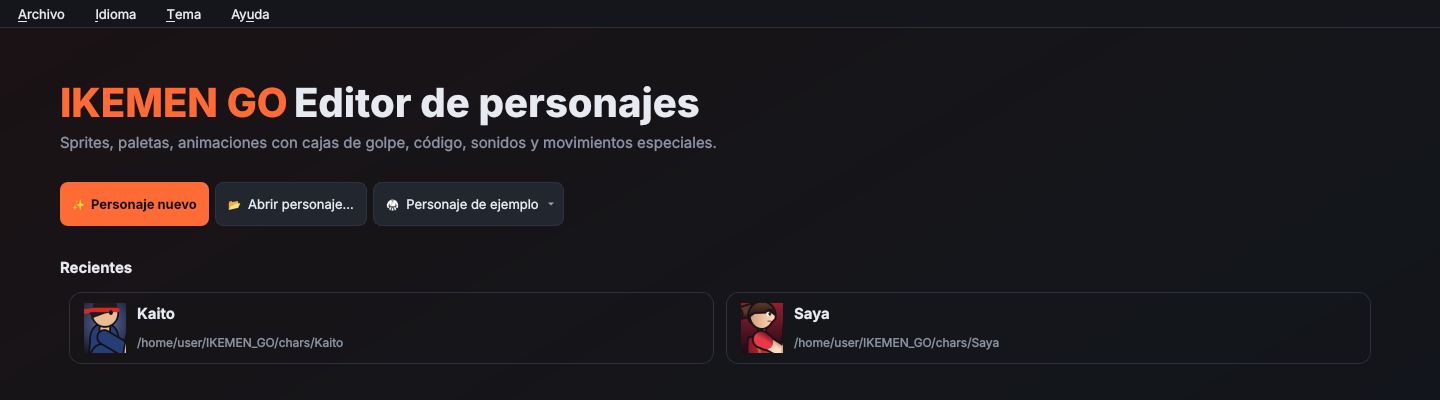
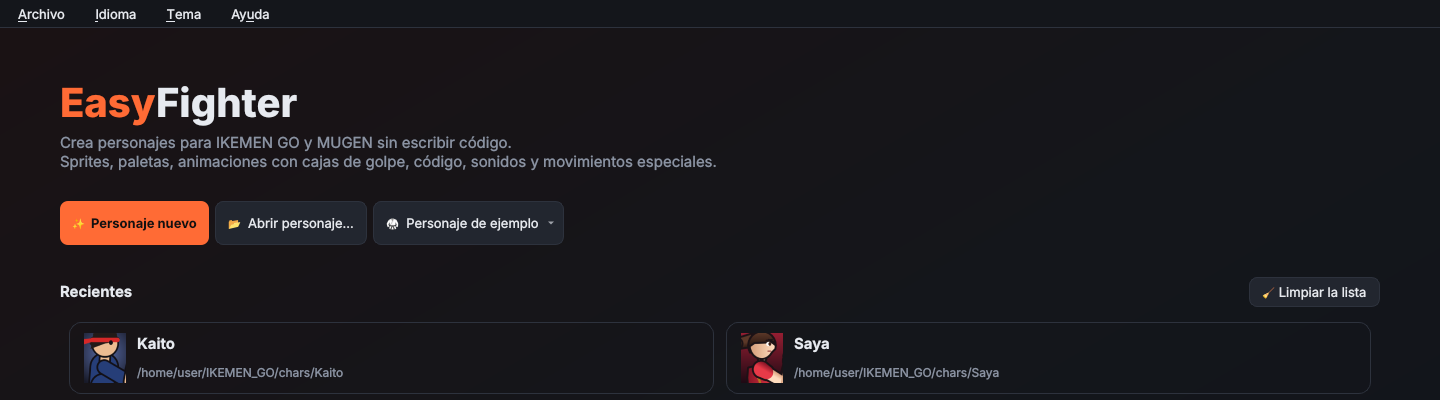
Nuevo nombre: EasyFighter

diff --git a/i18n.py b/i18n.py
@@ -1,9 +1,9 @@
 """
-Idiomas de IKEMEN GO Character Editor / IKEMEN GO Character Editor languages.
+Idiomas de EasyFighter / EasyFighter languages.
 
 The program text is written in Spanish in the source code; every visible text goes through tr().
 English is the default language. Translations live in lang/<code>.json as {"Spanish text": "translation"}.
-To add a language: copy lang/en.json to lang/<code>.json (or to ~/.config/ikemen-chareditor/lang/),
+To add a language: copy lang/en.json to lang/<code>.json (or to ~/.config/easyfighter/lang/),
 set "_name" and translate the values.
 """
 import json
@@ -14,11 +14,19 @@ from pathlib import Path
 HERE = Path(getattr(sys, "_MEIPASS", Path(__file__).resolve().parent))
 LANG_DIR = HERE / "lang"
 if sys.platform == "win32":
-    CONFIG_DIR = Path(os.environ.get("APPDATA", Path.home() / "AppData" / "Roaming")) / "ikemen-chareditor"
+    CONFIG_DIR = Path(os.environ.get("APPDATA", Path.home() / "AppData" / "Roaming")) / "easyfighter"
 elif sys.platform == "darwin":
-    CONFIG_DIR = Path.home() / "Library" / "Application Support" / "ikemen-chareditor"
+    CONFIG_DIR = Path.home() / "Library" / "Application Support" / "easyfighter"
 else:
-    CONFIG_DIR = Path(os.environ.get("XDG_CONFIG_HOME", Path.home() / ".config")) / "ikemen-chareditor"
+    CONFIG_DIR = Path(os.environ.get("XDG_CONFIG_HOME", Path.home() / ".config")) / "easyfighter"
+# antes se llamaba «IKEMEN GO Character Editor»: su configuración (recientes, idioma, tema…) se pasa a la carpeta nueva
+_OLD_DIR = CONFIG_DIR.parent / "ikemen-chareditor"
+if not CONFIG_DIR.exists() and _OLD_DIR.is_dir():
+    try:
+        import shutil
+        shutil.copytree(_OLD_DIR, CONFIG_DIR)
+    except OSError:
+        pass
 SETTINGS_FILE = CONFIG_DIR / "settings.json"
 DEFAULT_LANG = "en"
 SOURCE_LANG = "es"  # idioma en que está escrito el código
@@ -28,7 +36,7 @@ LANG = DEFAULT_LANG
 
 
 def _lang_files():
-    """Archivos de idioma: los que vienen con la app y los del usuario (~/.config/ikemen-chareditor/lang)."""
+    """Archivos de idioma: los que vienen con la app y los del usuario (~/.config/easyfighter/lang)."""
     found = {}
     for d in (LANG_DIR, CONFIG_DIR / "lang"):
         if d.is_dir():

diff --git a/packaging/build.py b/packaging/build.py
@@ -1,5 +1,5 @@
 #!/usr/bin/env python3
-"""Arma el ejecutable del IKEMEN GO Character Editor para el sistema donde lo corres.
+"""Arma el ejecutable de EasyFighter para el sistema donde lo corres.
 
 PyInstaller no puede hacer ejecutables para otros sistemas: el de Windows se arma en Windows, el de macOS en
 un Mac y el de Linux en Linux. Para tener los tres sin tener las tres computadoras, usa el workflow de GitHub
@@ -27,8 +27,8 @@ import zipfile
 from pathlib import Path
 
 ROOT = Path(__file__).resolve().parent.parent
-APP = "IKEMEN-GO-Character-Editor"
-PRETTY = "IKEMEN GO Character Editor"
+APP = "EasyFighter"
+PRETTY = "EasyFighter"
 DATA = ["lang", "ejemplos", "icon.png", "LICENSE", "README.md", "README.es.md"]
 
 
@@ -109,7 +109,7 @@ def pyinstaller(osn, onefile, work):
     if ic is not None:
         args += ["--icon", str(ic)]
     if osn == "macos":
-        args += ["--osx-bundle-identifier", "io.github.ikemen-chareditor"]
+        args += ["--osx-bundle-identifier", "io.github.pollito001.easyfighter"]
     say("PyInstaller (toma unos minutos)")
     subprocess.run(args, check=True, cwd=ROOT)
 

diff --git a/ui/shell.py b/ui/shell.py
@@ -225,15 +225,17 @@ class Welcome(QWidget):
         outer = QVBoxLayout(self)
         outer.setContentsMargins(60, 50, 60, 40)
         title = QHBoxLayout()
-        a = QLabel("IKEMEN GO")
+        title.setSpacing(0)
+        a = QLabel("Easy")
         a.setObjectName("HeroAccent")
-        b = QLabel(tr('Editor de personajes'))
+        b = QLabel("Fighter")
         b.setObjectName("Hero")
         title.addWidget(a)
         title.addWidget(b)
         title.addStretch(1)
         outer.addLayout(title)
-        sub = QLabel(tr('Sprites, paletas, animaciones con cajas de golpe, código, sonidos y movimientos especiales.'))
+        sub = QLabel(tr('Crea personajes para IKEMEN GO y MUGEN sin escribir código.') + "\n" +
+                     tr('Sprites, paletas, animaciones con cajas de golpe, código, sonidos y movimientos especiales.'))
         sub.setObjectName("HeroSub")
         outer.addWidget(sub)
         outer.addSpacing(24)

diff --git a/ui/theme.py b/ui/theme.py
@@ -192,7 +192,7 @@ def _arrows():
         folder = Path(i18n.CONFIG_DIR) / "theme"
         folder.mkdir(parents=True, exist_ok=True)
     except OSError:
-        folder = Path(tempfile.gettempdir()) / "ikemen_chareditor_theme"
+        folder = Path(tempfile.gettempdir()) / "easyfighter_theme"
         folder.mkdir(parents=True, exist_ok=True)
     for name, up, col in (("up", True, CUR["TEXT"]), ("down", False, CUR["TEXT"]), ("up_hot", True, CUR["ACCENT"]),
                           ("down_hot", False, CUR["ACCENT"]), ("up_off", True, CUR["ARROWOFF"]), ("down_off", False, CUR["ARROWOFF"])):

diff --git a/ui/testgame.py b/ui/testgame.py
@@ -160,7 +160,7 @@ class TestDialog(QDialog):
 
 
 MOD_NAME = "chareditor_test.lua"
-MOD_CODE = """-- IKEMEN GO Character Editor: modo de prueba.
+MOD_CODE = """-- EasyFighter (editor de personajes): modo de prueba.
 -- Solo hace algo si el juego se abre desde el editor con «Nadie se muere» (bandera -chareditor_nodie):
 -- la pelea va en modo entrenamiento (la vida se rellena sola y nadie cae KO). Se puede borrar sin problema.
 if getCommandLineValue('-chareditor_nodie') ~= nil then

diff --git a/ui/simple_mode.py b/ui/simple_mode.py
@@ -2274,7 +2274,7 @@ def play_sound(owner, p, v):
         QMessageBox.information(owner, APP_NAME, tr('Tu instalación de PyQt6 no trae sonido (QtMultimedia).'))
         return
     import tempfile
-    tmp = Path(tempfile.gettempdir()) / "ikemen_chareditor_voice.wav"
+    tmp = Path(tempfile.gettempdir()) / "easyfighter_voice.wav"
     tmp.write_bytes(s.data)
     owner._player = QSoundEffect(owner)
     owner._player.setSource(QUrl.fromLocalFile(str(tmp)))

diff --git a/ui/sim_tab.py b/ui/sim_tab.py
@@ -269,7 +269,7 @@ class SimTab(QWidget):
         try:
             import tempfile
             from PyQt6.QtMultimedia import QSoundEffect
-            tmp = Path(tempfile.gettempdir()) / f"ikemen_chareditor_sim_{g}_{n}.wav"
+            tmp = Path(tempfile.gettempdir()) / f"easyfighter_sim_{g}_{n}.wav"
             tmp.write_bytes(s.data)
             self.player = QSoundEffect(self)
             self.player.setSource(QUrl.fromLocalFile(str(tmp)))

diff --git a/ui/sounds_tab.py b/ui/sounds_tab.py
@@ -27,7 +27,7 @@ class SoundsTab(QWidget):
         self.undo = QUndoStack(self)
         self.undo.cleanChanged.connect(self.modifiedChanged)
         self.player = None
-        self._tmp = Path(tempfile.gettempdir()) / "ikemen_chareditor_preview.wav"
+        self._tmp = Path(tempfile.gettempdir()) / "easyfighter_preview.wav"
         self._block = False
         lay = QVBoxLayout(self)
         top = QHBoxLayout()

diff --git a/main.py b/main.py
@@ -1,5 +1,5 @@
 #!/usr/bin/env python3
-"""IKEMEN GO Character Editor — editor de personajes para IKEMEN GO."""
+"""EasyFighter — editor de personajes para IKEMEN GO (y MUGEN), sin código."""
 import os
 import sys
 from pathlib import Path

diff --git a/ui/common.py b/ui/common.py
@@ -8,7 +8,7 @@ from PyQt6.QtWidgets import (
 
 from i18n import tr
 
-APP_NAME = "IKEMEN GO Character Editor"
+APP_NAME = "EasyFighter"
 
 
 def read_audio(parent, path):

diff --git a/README.es.md b/README.es.md
@@ -1,4 +1,4 @@
-<h1 align="center">IKEMEN GO Character Editor</h1>
+<h1 align="center">EasyFighter</h1>
 
 <p align="center">
   <b>Haz personajes de pelea para IKEMEN GO sin escribir código.</b><br>
@@ -13,6 +13,8 @@
   <img alt="Hecho con IA" src="https://img.shields.io/badge/hecho%20con-IA%20(Claude)-8A2BE2">
 </p>
 
+<p align="center"><sub>Una herramienta independiente, hecha por fans. No es oficial ni está afiliada a los proyectos IKEMEN GO o MUGEN.</sub></p>
+
 <p align="center"><i>English: <a href="README.md">README.md</a></i></p>
 
 <p align="center"><img src="docs/img/juego_especial.png" width="760" alt="Kaito, el personaje de ejemplo, lanzando su especial en IKEMEN GO"></p>
@@ -24,8 +26,8 @@
 
 ## ¿Qué es?
 
-Un editor de personajes para **IKEMEN GO** (también abre personajes de MUGEN), al estilo de Fighter Factory,
-pero pensado para que **cualquiera** pueda hacer un personaje:
+**EasyFighter** es un editor de personajes para **IKEMEN GO** (también abre personajes de MUGEN), al estilo de
+Fighter Factory, pero pensado para que **cualquiera** pueda hacer un personaje:
 
 - 🧸 **Modo simple:** casillas para cada animación (parado, caminar, golpes, especiales…). Pones tus imágenes
   o una hoja de sprites y el editor arma las animaciones, las cajas de golpe y todo el código.

diff --git a/README.md b/README.md
@@ -1,4 +1,4 @@
-<h1 align="center">IKEMEN GO Character Editor</h1>
+<h1 align="center">EasyFighter</h1>
 
 <p align="center">
   <b>Make fighting game characters for IKEMEN GO without writing code.</b><br>
@@ -13,6 +13,8 @@
   <img alt="Made with AI" src="https://img.shields.io/badge/made%20with-AI%20(Claude)-8A2BE2">
 </p>
 
+<p align="center"><sub>An independent, fan-made tool. Not affiliated with or endorsed by the IKEMEN GO or MUGEN projects.</sub></p>
+
 <p align="center"><i>Español: <a href="README.es.md">README.es.md</a></i></p>
 
 <p align="center"><img src="docs/img/juego_especial.png" width="760" alt="Kaito, the example character, throwing his special in IKEMEN GO"></p>
@@ -24,8 +26,8 @@
 
 ## What is it?
 
-A character editor for **IKEMEN GO** (it also opens MUGEN characters), in the spirit of Fighter Factory, but
-designed so that **anyone** can make a character:
+**EasyFighter** is a character editor for **IKEMEN GO** (it also opens MUGEN characters), in the spirit of
+Fighter Factory, but designed so that **anyone** can make a character:
 
 - 🧸 **Simple mode:** a slot for each animation (standing, walking, attacks, specials…). Add your images or a
   sprite sheet and the editor builds the animations, the hitboxes and all the code.
